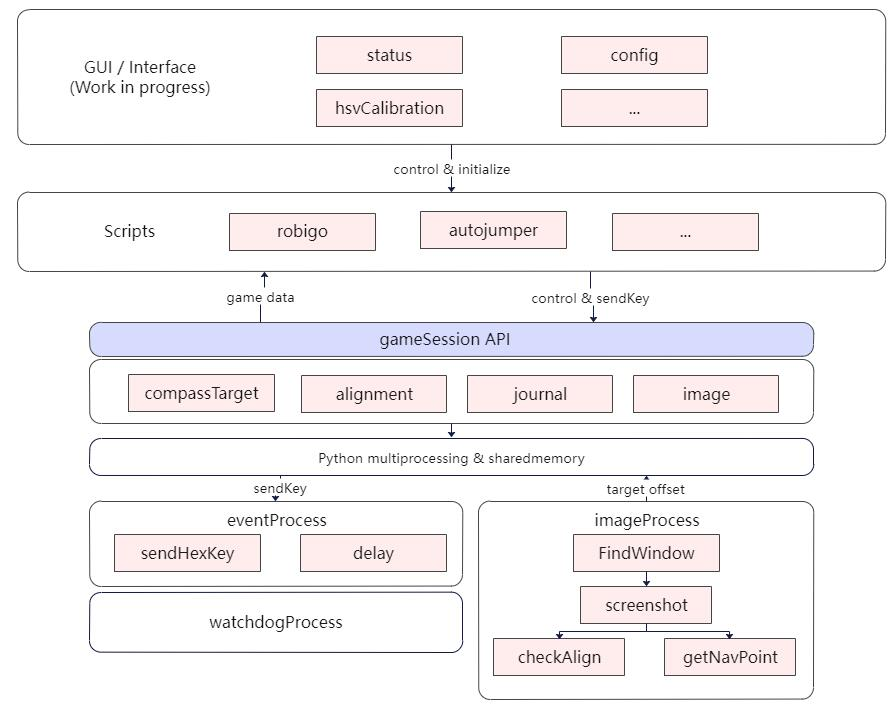
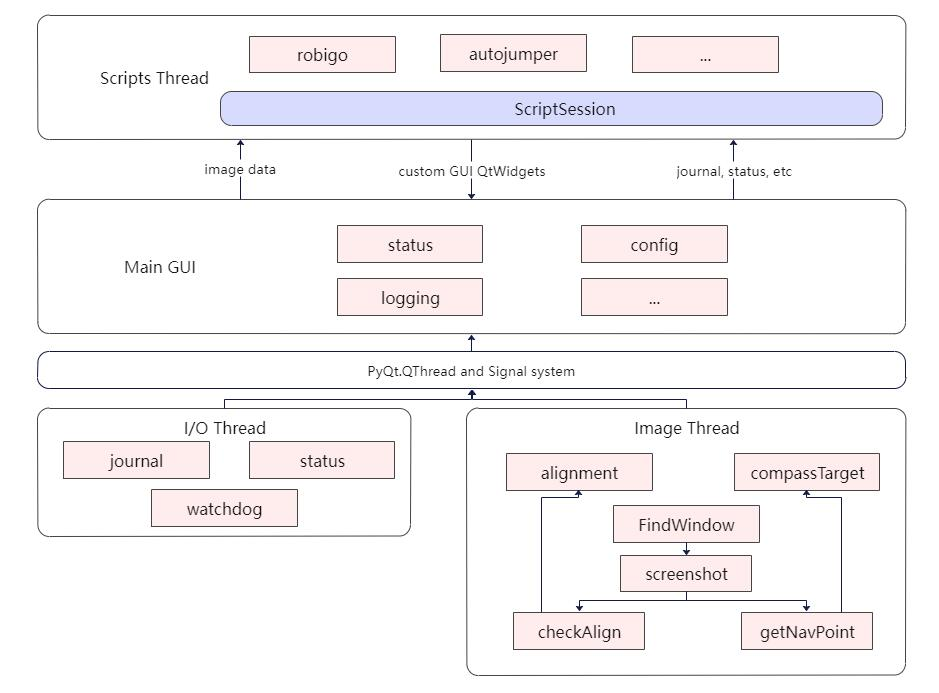
Restructure project

diff --git a/gameui.py b/gameui.py
@@ -2,7 +2,6 @@ from PySide2.QtGui import QImage, QPixmap, QTextCharFormat, QColor, QBrush, QCur
 from PySide2.QtWidgets import QApplication, QFileDialog, QPlainTextEdit, QLabel, QMenu, QAction, QGridLayout
 from PySide2.QtUiTools import QUiLoader
 from PySide2.QtCore import QThread, QObject, Signal
-from requests import session
 from utils.utils import *
 import sys
 import webbrowser

diff --git a/README.md b/README.md
@@ -2,7 +2,7 @@
  - An autopilot bot for Elite:Dangerous based on OpenCV+Python.
  - Notice: this program **only** works in *Elite Dangerous: Horizons* currently
  - *Windows 11* Compatible
- - Structure:
+ - Structure (v2):
  ![struct](/img/struct.jpg)
 
 # What can it do?
@@ -123,6 +123,8 @@ Showcase: [here](https://streamable.com/p8mhoz) (*accelerated, no manual key inp
 		</DesaturateTest>
 	</GUIColour>
  ```
-
+# Screenshots
+![screenshot-1](/img/screenshot1.jpg)
+![screenshot-2](/img/screenshot2.jpg)
 # Credits
  - **@skai2** https://github.com/skai2/EDAutopilot for initial idea and DirectInput system
